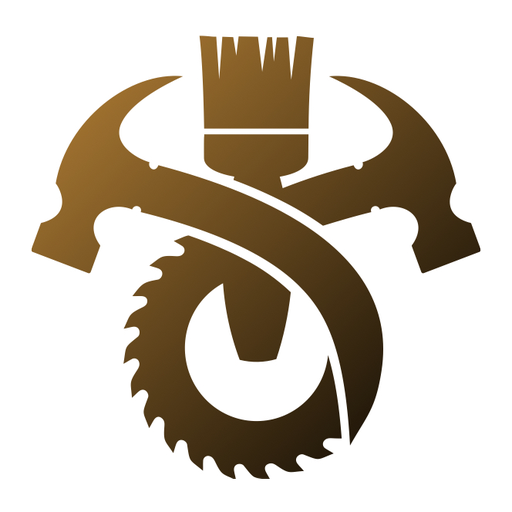
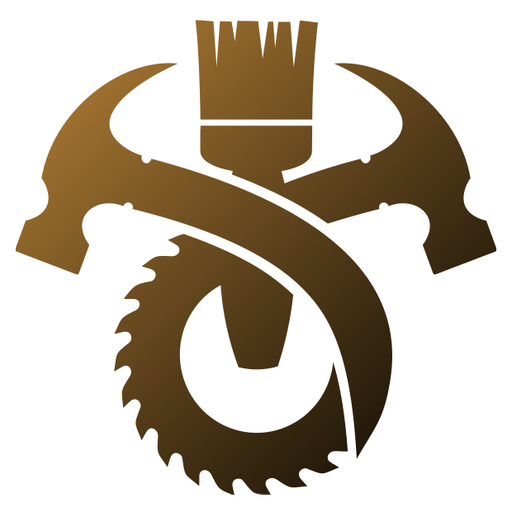
Letterhead: emblem inline to the left of the company name
Tighten the emblem crop and wrap logo + ROYBAL CONSTRUCTION, LLC in an
inline flex lockup (logo left, text right, vertically centered). Bump SW
cache to v7.

diff --git a/apps/field/js/formkit.js b/apps/field/js/formkit.js
@@ -221,10 +221,11 @@ export function lineItems(items, blankFn, opts = {}) {
 /* ---------- printable letterhead + footer ---------- */
 export function letterhead(formTitle, subtitle) {
   return h("div", { class: "print-only sheet-head" },
-    h("img", { class: "sheet-head__logo", src: "assets/emblem-mark.png", alt: "Roybal Construction" }),
-    h("div", { class: "sheet-head__co" },
-      h("div", { class: "sheet-head__name" }, "ROYBAL CONSTRUCTION, LLC"),
-      h("div", { class: "sheet-head__tag" }, COMPANY.tagline)),
+    h("div", { class: "sheet-head__brand" },
+      h("img", { class: "sheet-head__logo", src: "assets/emblem-mark.png", alt: "Roybal Construction" }),
+      h("div", { class: "sheet-head__co" },
+        h("div", { class: "sheet-head__name" }, "ROYBAL CONSTRUCTION, LLC"),
+        h("div", { class: "sheet-head__tag" }, COMPANY.tagline))),
     h("div", { class: "sheet-head__addr" },
       h("div", {}, COMPANY.address),
       h("div", {}, COMPANY.phone + " | " + COMPANY.email),

diff --git a/apps/field/css/print.css b/apps/field/css/print.css
@@ -21,14 +21,14 @@ section.sheet + section.sheet { page-break-before: always; }
 
 /* ---------- letterhead ---------- */
 .sheet-head {
-  display: grid; grid-template-columns: auto 1fr auto; align-items: center; column-gap: 10px;
+  display: grid; grid-template-columns: 1fr auto; align-items: center; column-gap: 12px;
   border-bottom: 2.5px solid #0f1b2d; padding-bottom: 6px; margin-bottom: 12px;
 }
+.sheet-head__brand { display: flex; align-items: center; gap: 9px; }
 .sheet-head__logo {
-  width: 0.62in; height: 0.62in; object-fit: contain; align-self: center;
+  width: 0.55in; height: 0.55in; object-fit: contain; flex: 0 0 auto;
   -webkit-print-color-adjust: exact; print-color-adjust: exact;
 }
-.sheet-head__co { align-self: center; }
 .sheet-head__name { font-size: 13pt; font-weight: 800; color: #0f1b2d; letter-spacing: .3px; }
 .sheet-head__tag { font-size: 7.5pt; color: #44556b; }
 .sheet-head__addr { font-size: 7.5pt; color: #44556b; text-align: right; line-height: 1.35; }

diff --git a/apps/field/sw.js b/apps/field/sw.js
@@ -3,7 +3,7 @@
    same-origin assets = stale-while-revalidate (instant load, refreshes in
    the background so updates land on the next open); large vendor files =
    cache-first. This makes new deploys self-update without manual cache bumps. */
-const CACHE = "roybal-field-v6";
+const CACHE = "roybal-field-v7";
 
 const CORE = [
   ".", "index.html", "manifest.webmanifest",